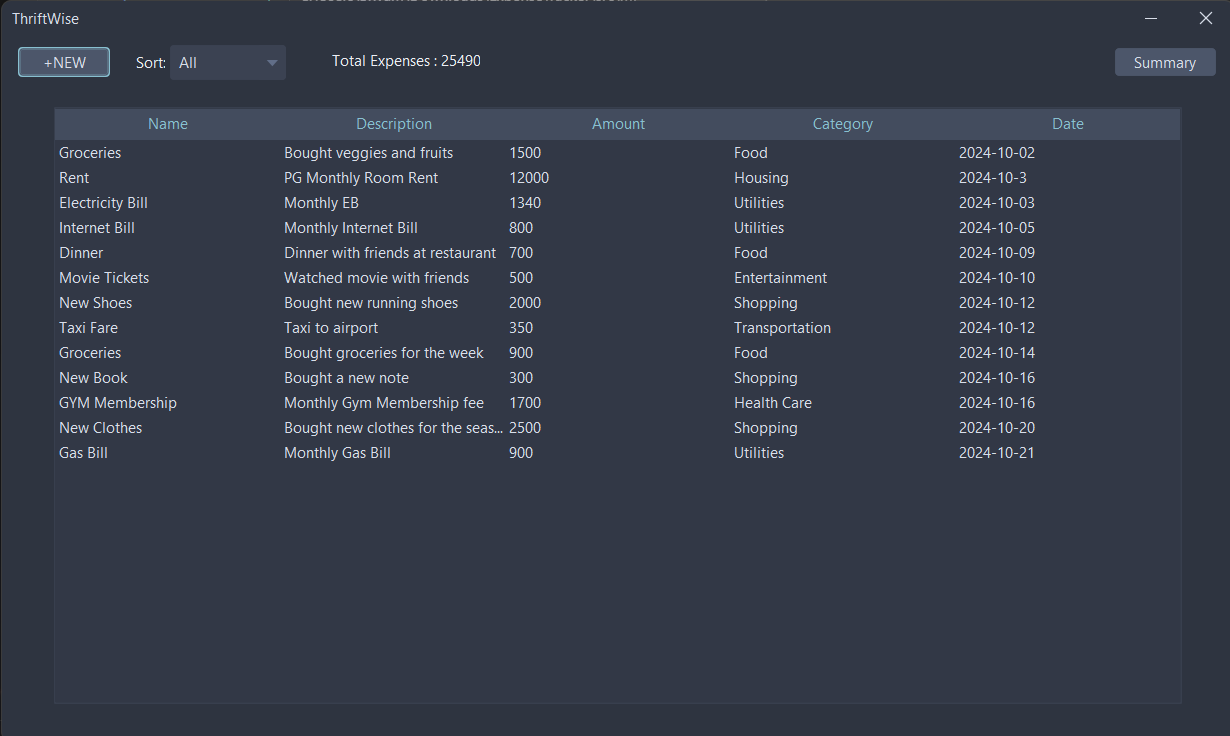
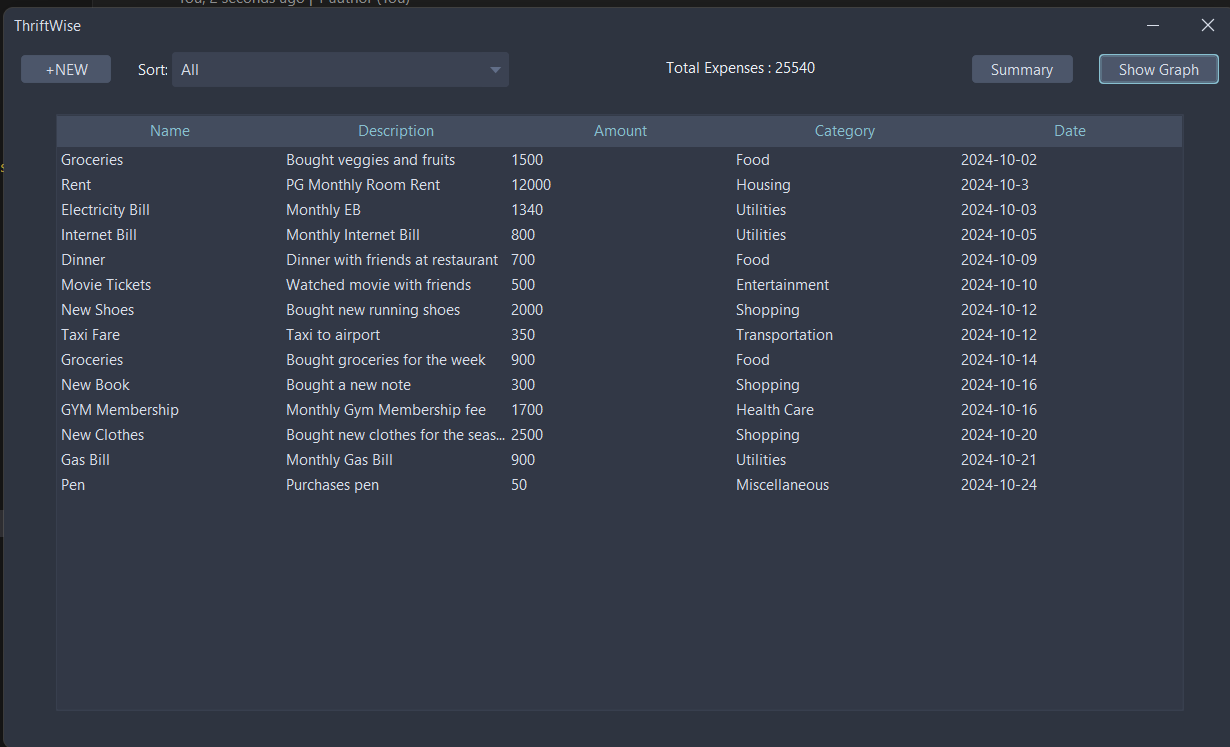
feat: add show graph button on main window to show piechart of the category wise split

diff --git a/src/main/java/org/ThriftWise/MyActionListener.java b/src/main/java/org/ThriftWise/MyActionListener.java
@@ -1,43 +1,152 @@
 package org.ThriftWise;
 
+import org.jfree.chart.ChartFactory;
+import org.jfree.chart.ChartPanel;
+import org.jfree.chart.JFreeChart;
+import org.jfree.chart.plot.PiePlot;
+import org.jfree.chart.labels.StandardPieSectionLabelGenerator;
+
 import javax.swing.*;
 import java.awt.*;
 import java.awt.event.ActionEvent;
 import java.awt.event.ActionListener;
 import java.sql.SQLException;
-
+import org.jfree.data.general.DefaultPieDataset;
+import org.jfree.chart.labels.PieToolTipGenerator;
 
 public class MyActionListener extends Component implements ActionListener {
 
     @Override
-    public void actionPerformed(ActionEvent e) {
-        if (e.getSource() instanceof JButton) {
-            if (e.getActionCommand().equals("+NEW")) {
-                new NewExpense();
-            }
+public void actionPerformed(ActionEvent e) {
+    if (e.getSource() instanceof JButton) {
+        if (e.getActionCommand().equals("+NEW")) {
+            new NewExpense();
+        }
 
-            if (e.getActionCommand().equals("Summary")) {
-//                System.out.println(ExpenseDB.totalExpenses());
-                String[] rs = ExpenseDB.getCategories();
-                StringBuilder summary = new StringBuilder();
-                summary.append("Summary:\n\n");
+        if (e.getActionCommand().equals("Summary")) {
+            String[] categories = ExpenseDB.getCategories();
+            StringBuilder summary = new StringBuilder();
+            summary.append("Summary:\n\n");
 
-                for (String s : rs) {
-                    summary.append(s).append(" : ").append(ExpenseDB.totalExpenses(s)).append("\n");
+            DefaultPieDataset<String> dataset = new DefaultPieDataset<>();
+            final double[] totalExpenses = {0.0};
+
+            for (String category : categories) {
+                if (category.equals("All")) continue;
+
+                String categoryTotal = ExpenseDB.totalExpenses(category);
+
+                if (categoryTotal == null || categoryTotal.isEmpty()) {
+                    categoryTotal = "0";
                 }
 
-                JOptionPane.showMessageDialog(this, summary.toString(), "Expense Summary", JOptionPane.INFORMATION_MESSAGE);
-            }
-        }
-        if (e.getSource() instanceof JComboBox) {
-//            System.out.println("pressed!" + ((JComboBox<?>) e.getSource()).getSelectedItem());
+                categoryTotal = categoryTotal.replaceAll("[^0-9.]", "");
 
-            try {
-                HomeWindow.updateTable();
-            } catch (SQLException exception) {
-                throw new RuntimeException(exception);
+                summary.append(category).append(" : ").append(categoryTotal).append("\n");
+
+                try {
+                    double categoryValue = Double.parseDouble(categoryTotal);
+                    dataset.setValue(category, categoryValue);
+                    totalExpenses[0] += categoryValue;
+                } catch (NumberFormatException ex) {
+                    System.err.println("Invalid number format for category: " + category + " Total: " + categoryTotal);
+                }
             }
-            HomeWindow.updateTotal();
+
+            JOptionPane.showMessageDialog(this, summary.toString(), "Expense Summary", JOptionPane.INFORMATION_MESSAGE);
+        }
+
+        // Show Graph button action
+        if (e.getActionCommand().equals("Show Graph")) {
+            String[] categories = ExpenseDB.getCategories();
+            DefaultPieDataset<String> dataset = new DefaultPieDataset<>();
+            final double[] totalExpenses = {0.0};
+
+            for (String category : categories) {
+                if (category.equals("All")) continue;
+
+                String categoryTotal = ExpenseDB.totalExpenses(category);
+
+                if (categoryTotal == null || categoryTotal.isEmpty()) {
+                    categoryTotal = "0";
+                }
+
+                categoryTotal = categoryTotal.replaceAll("[^0-9.]", "");
+
+                try {
+                    double categoryValue = Double.parseDouble(categoryTotal);
+                    dataset.setValue(category, categoryValue);
+                    totalExpenses[0] += categoryValue;
+                } catch (NumberFormatException ex) {
+                    System.err.println("Invalid number format for category: " + category + " Total: " + categoryTotal);
+                }
+            }
+
+            JFreeChart chart = ChartFactory.createPieChart(
+                    "Expense Summary",    // Title of the chart
+                    dataset,              // Data
+                    true,                 // Include legend
+                    true,                 // Tooltips
+                    false                 // URLs (disabled)
+            );
+
+            PiePlot<String> plot = (PiePlot<String>) chart.getPlot();
+            plot.setLabelGenerator(new StandardPieSectionLabelGenerator("{0}: {1} ({2})"));
+
+            // Beautify the PieChart for better aesthetics
+            plot.setSectionPaint("Food", new Color(255, 230, 102));
+            plot.setSectionPaint("Transportation", new Color(119, 255, 51));
+            plot.setSectionPaint("Housing", new Color(0, 102, 51));
+            plot.setSectionPaint("Entertainment", new Color(177, 27, 27));
+            plot.setSectionPaint("Utilities", new Color(102, 166, 255));
+            plot.setSectionPaint("Health Care", new Color(0, 34, 204));
+            plot.setSectionPaint("Shopping", new Color(180, 31, 255));
+            plot.setSectionPaint("Insurance", new Color(255, 199, 250));
+            plot.setSectionPaint("Taxes", new Color(255, 51, 102));
+            plot.setSectionPaint("Miscellaneous", new Color(255, 158, 31));
+
+            // Custom PieToolTipGenerator to format the tooltip text
+            PieToolTipGenerator toolTipGenerator = (dataset1, key) -> {
+                if (key != null) {
+                    double value = dataset1.getValue(key).doubleValue();
+                    double percentage = (totalExpenses[0] > 0) ? (value / totalExpenses[0]) * 100 : 0.0;
+                    return key + ": " + value + " (" + String.format("%.2f", percentage) + "%)";
+                }
+                return null;
+            };
+            plot.setToolTipGenerator(toolTipGenerator);
+
+            // Set the font for the labels to match FlatLaf IntelliJ theme
+            plot.setLabelFont(new Font("Segoe UI", Font.PLAIN, 14));
+            plot.setLabelPaint(Color.BLACK);
+
+            // Customize the border and background
+            plot.setBackgroundPaint(new Color(211,211,211));
+            plot.setOutlinePaint(Color.WHITE);
+
+            // Create and configure chart panel
+            ChartPanel chartPanel = new ChartPanel(chart);
+            chartPanel.setPreferredSize(new Dimension(600, 400));
+            chartPanel.setMouseWheelEnabled(true);
+
+            // Create a new JFrame for the chart
+            JFrame chartFrame = new JFrame("Category Expenses Pie Chart");
+            chartFrame.setDefaultCloseOperation(JFrame.DISPOSE_ON_CLOSE);
+            chartFrame.setLayout(new BorderLayout());
+            chartFrame.add(chartPanel, BorderLayout.CENTER);
+            chartFrame.pack();
+            chartFrame.setVisible(true);
         }
     }
+
+    if (e.getSource() instanceof JComboBox) {
+        try {
+            HomeWindow.updateTable();
+        } catch (SQLException exception) {
+            throw new RuntimeException(exception);
+        }
+        HomeWindow.updateTotal();
+    }
+}
+
 }

diff --git a/src/main/java/org/ThriftWise/HomeWindow.java b/src/main/java/org/ThriftWise/HomeWindow.java
@@ -47,18 +47,24 @@ public class HomeWindow extends JFrame {
     private JPanel createSelectionPanel() {
         JPanel selectionPanel = new JPanel();
         selectionPanel.setLayout(new BoxLayout(selectionPanel, BoxLayout.X_AXIS));
-
+    
         JButton newButton = new JButton("+NEW");
         newButton.addActionListener(new MyActionListener());
-
+    
         JComboBox<String> categoriesBox;
         categoriesBox = createSortPanel();
-
+    
         JButton calculateButton = new JButton("Summary");
         calculateButton.addActionListener(new MyActionListener());
+    
+        // New Show Graph button
+        JButton showGraphButton = new JButton("Show Graph");
+        showGraphButton.addActionListener(new MyActionListener());  // Action listener to show the graph
+    
         JPanel totalPanel = new JPanel();
         totalPanel.add(label);
-
+    
+        // Add the components with spacing between them
         selectionPanel.add(Box.createRigidArea(new Dimension(20, 0)));
         selectionPanel.add(newButton);
         selectionPanel.add(Box.createRigidArea(new Dimension(20, 0)));
@@ -67,12 +73,17 @@ public class HomeWindow extends JFrame {
         selectionPanel.add(categoriesBox);
         selectionPanel.add(Box.createRigidArea(new Dimension(20, 0)));
         selectionPanel.add(totalPanel);
-        selectionPanel.add(Box.createRigidArea(new Dimension(490, 0)));
+        selectionPanel.add(Box.createRigidArea(new Dimension(20, 0)));
         selectionPanel.add(calculateButton);
         selectionPanel.add(Box.createRigidArea(new Dimension(20, 0)));
+    
+        // Add the Show Graph button to the panel
+        selectionPanel.add(showGraphButton);
+        selectionPanel.add(Box.createRigidArea(new Dimension(20, 0)));
+    
         selectionPanel.setPreferredSize(new Dimension(1000, 30));
         return selectionPanel;
-    }
+    } 
 
     private JComboBox<String> createSortPanel() {
 //        JPanel sortPanel = new JPane

diff --git a/README.md b/README.md
@@ -13,16 +13,21 @@ ThriftWise is a Java application that allows you to track and manage your expens
 ### Summary
 ![Summary](./img/summary.png)
 
+### Expense Summary with Graph
+![Expense Graph](./img/graph.png)
+
 ## Features
 
 - Add new expenses
 - Sort expenses based on categories
 - Provides a summary of total expenses
+- Visual representation of expenses using pie charts (new feature)
 
 ## Future Developments
 
 - Implement delete functionality for expenses
-- Visual representation of expenses using graphs
+- Further improvements in expense visualizations
+- Exporting expense data as CSV/Excel files
 
 ## Prerequisites
 
